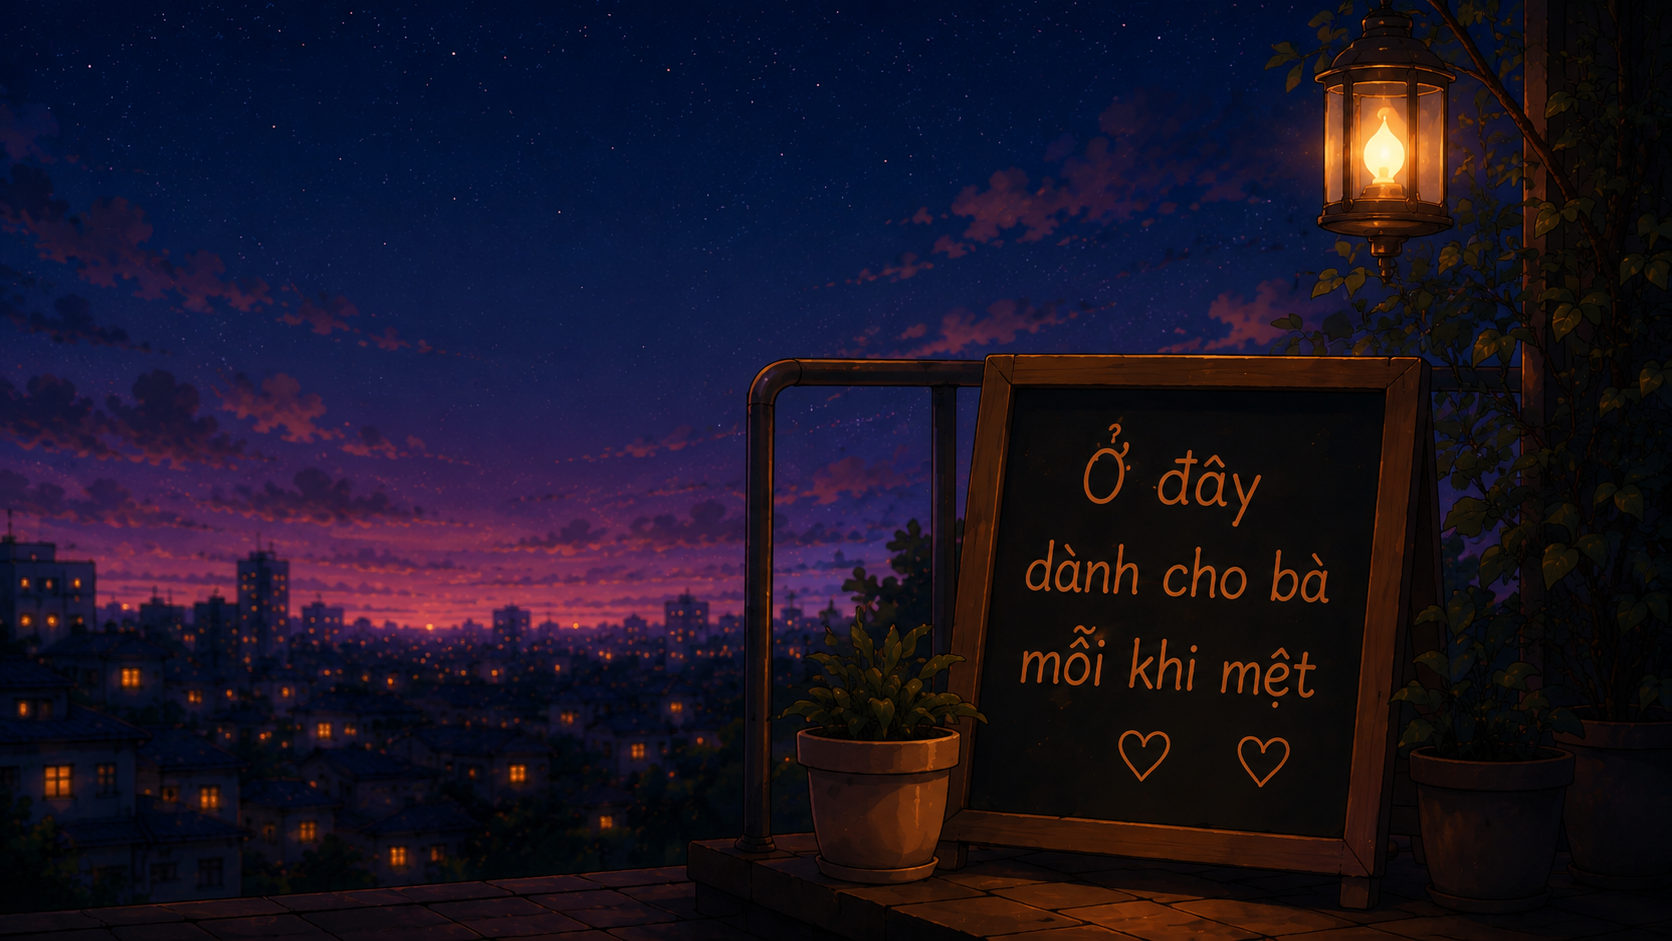
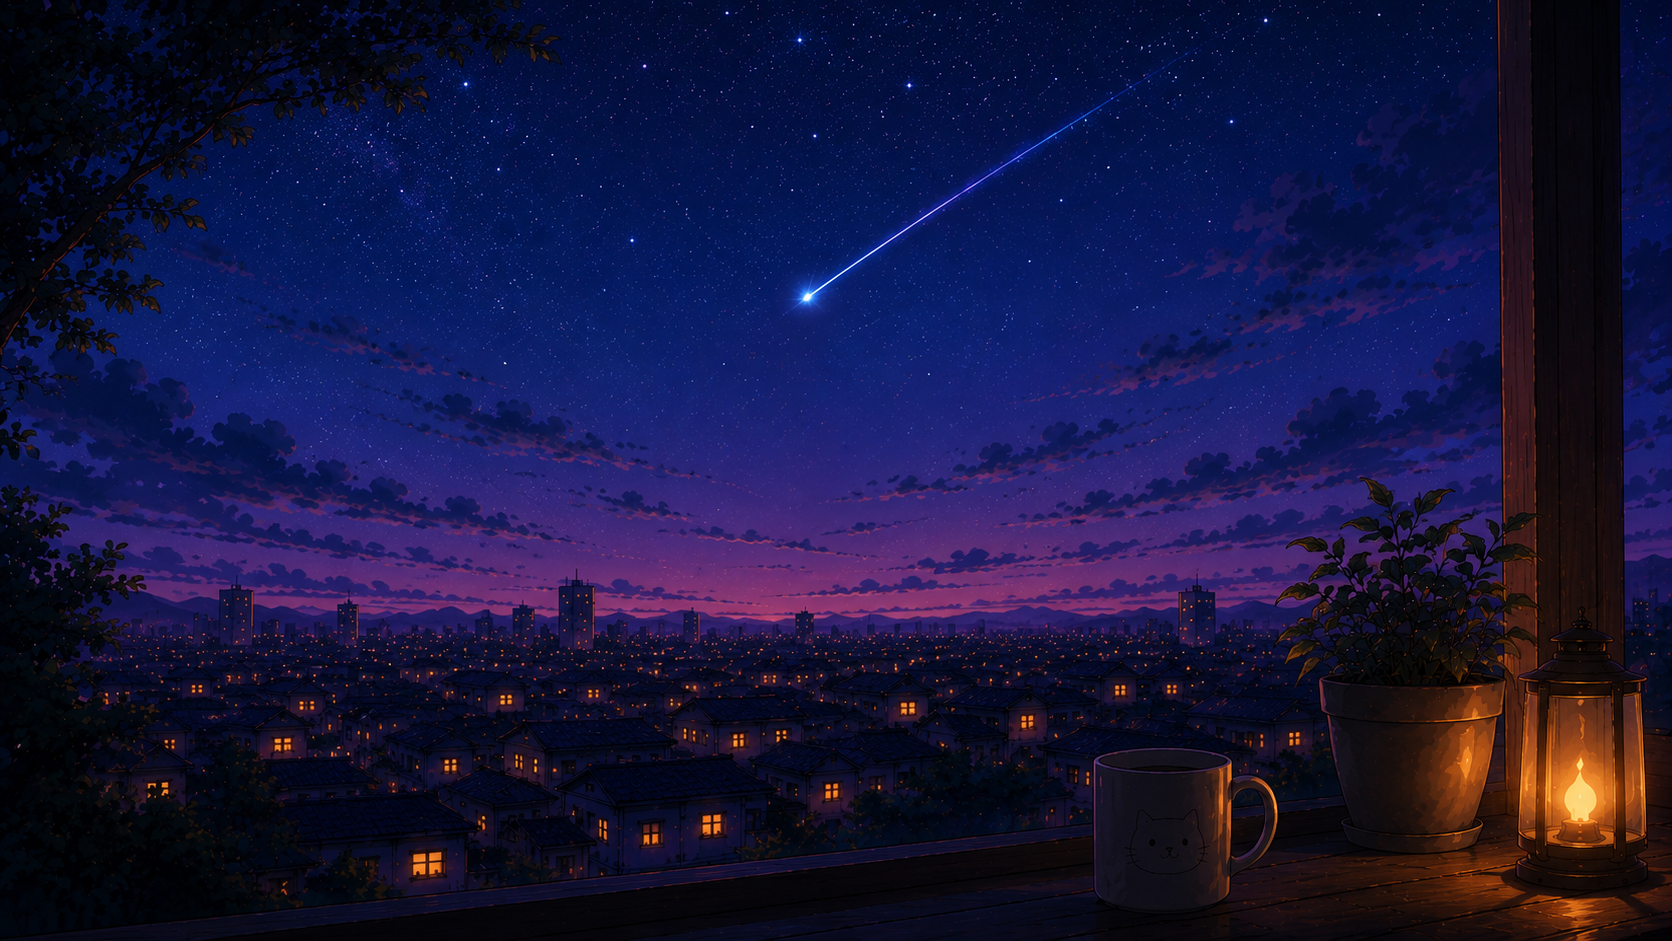
Aurora Final v1.0

diff --git a/script.js b/script.js
@@ -38,11 +38,19 @@ const state = {
 
     currentScene: -1,
 
-    animationId: null
+    activeScene: "A",
+
+    animationId: null,
+
+    typing: false,
+
+    typingTimer: null,
+
+    typingSpeed: 30,
+
+    fullText: ""
 
 };
-
-console.log("Aurora Ready");
 
 /*==================================================
     MESSAGE DATA
@@ -56,13 +64,28 @@ const messages = [
     },
 
     {
-        time: 4,
+        time: 3,
         text: "Ngồi nghỉ một chút nghen."
     },
 
     {
-        time: 8,
+        time: 6,
         text: "Có những ngày,\nchỉ cần cho mình vài phút ngồi yên\ncũng đã là đủ rồi."
+    },
+
+    {
+        time: 12,
+        text: "Không sao nếu hôm nay bà chưa ổn.\n\nMọi chuyện rồi sẽ có cách của nó,\nvà biết đâu ngày mai sẽ dịu dàng hơn hôm nay."
+    },
+
+    {
+        time: 22,
+        text: "Chúc bà luôn bình an\nvà ngủ thật ngon."
+    },
+
+    {
+        time: 26,
+        text: "Lúc nào thấy mệt,\nghé vào đây một chút cũng được. 🤍"
     }
 
 ];
@@ -79,13 +102,23 @@ const scenes = [
     },
 
     {
-        time: 15,
+        time: 6,
         image: "assets/images/scene2.png"
     },
 
     {
-        time: 27,
+        time: 12,
         image: "assets/images/scene3.png"
+    },
+
+    {
+        time: 22,
+        image: "assets/images/scene4.png"
+    },
+
+    {
+        time: 26,
+        image: "assets/images/scene5.png"
     }
 
 ];
@@ -108,11 +141,31 @@ function startAurora() {
 
     // Phát nhạc
     bgm.currentTime = 0;
-    bgm.volume = 0.35;
 
-    bgm.play().catch(() => {
-        console.log("Trình duyệt yêu cầu tương tác trước khi phát nhạc.");
-    });
+bgm.volume = 0;
+
+bgm.play().catch(() => {
+    
+
+    // Ignore autoplay restriction
+
+});
+
+const fadeIn = setInterval(() => {
+
+    if (bgm.volume < 0.25) {
+
+        bgm.volume += 0.01;
+
+    } else {
+
+        bgm.volume = 0.25;
+
+        clearInterval(fadeIn);
+
+    }
+
+}, 80);
 
     // Khóa nút
     startButton.disabled = true;
@@ -139,21 +192,64 @@ function updateMessage(elapsed) {
 
             state.currentMessage = i;
 
-            message.classList.remove("show-text");
+           message.classList.remove("show-text");
 
-            setTimeout(() => {
+           setTimeout(() => {
 
-                message.textContent = messages[i].text;
+           message.classList.add("show-text");
 
-                message.classList.add("show-text");
+           typeWriter(messages[i].text);
 
-            }, 200);
+           }, 200);
 
             return;
 
         }
 
     }
+
+}
+
+/*==================================================
+    TYPEWRITER ENGINE
+==================================================*/
+
+function typeWriter(text) {
+
+    // Nếu đang gõ thì dừng
+    if (state.typingTimer) {
+
+    clearInterval(state.typingTimer);
+
+    state.typingTimer = null;
+
+}
+
+    state.typing = true;
+
+    state.fullText = text;
+
+    message.textContent = "";
+
+    let index = 0;
+
+    state.typingTimer = setInterval(() => {
+
+        message.textContent += text.charAt(index);
+
+        index++;
+
+        if (index >= text.length) {
+
+            clearInterval(state.typingTimer);
+
+state.typingTimer = null;
+
+state.typing = false;
+
+        }
+
+    }, state.typingSpeed);
 
 }
 
@@ -175,7 +271,34 @@ function updateScene(elapsed) {
 
             state.currentScene = i;
 
-            sceneImageA.src = scenes[i].image;
+            const currentImage =
+                state.activeScene === "A"
+                    ? sceneImageA
+                    : sceneImageB;
+
+            const nextImage =
+                state.activeScene === "A"
+                    ? sceneImageB
+                    : sceneImageA;
+
+            nextImage.src = scenes[i].image;
+
+            nextImage.classList.remove("zoom");
+
+            requestAnimationFrame(() => {
+
+    nextImage.classList.add("zoom");
+
+});
+
+            nextImage.classList.add("active");
+
+            currentImage.classList.remove("active");
+
+            state.activeScene =
+                state.activeScene === "A"
+                    ? "B"
+                    : "A";
 
             return;
 

diff --git a/style.css b/style.css
@@ -224,6 +224,8 @@ SCENE IMAGE
 
     inset:0;
 
+    z-index:1;
+
     width:100%;
 
     height:100%;
@@ -268,18 +270,20 @@ OVERLAY
 
     inset:0;
 
+    z-index:2;
+
     background:
 
+     radial-gradient(
+        circle,
+        rgba(0,0,0,0) 45%,
+        rgba(0,0,0,.22) 100%
+    ),
     linear-gradient(
-
         to top,
-
         rgba(0,0,0,.55),
-
         rgba(0,0,0,.20),
-
         rgba(0,0,0,.05)
-
     );
 
     pointer-events:none;
@@ -434,7 +438,11 @@ IMAGE ANIMATION
 
 .zoom{
 
-    transform:scale(1.05);
+    transform:scale(1.02);
+
+    transform-origin:center center;
+
+    will-change:transform;
 
 }
 
@@ -466,9 +474,9 @@ SMOOTH TRANSITIONS
 
     transition:
 
-        opacity .8s ease,
+        opacity 1s ease,
 
-        transform 8s linear,
+        transform 30s linear,
 
         visibility .8s ease;
 